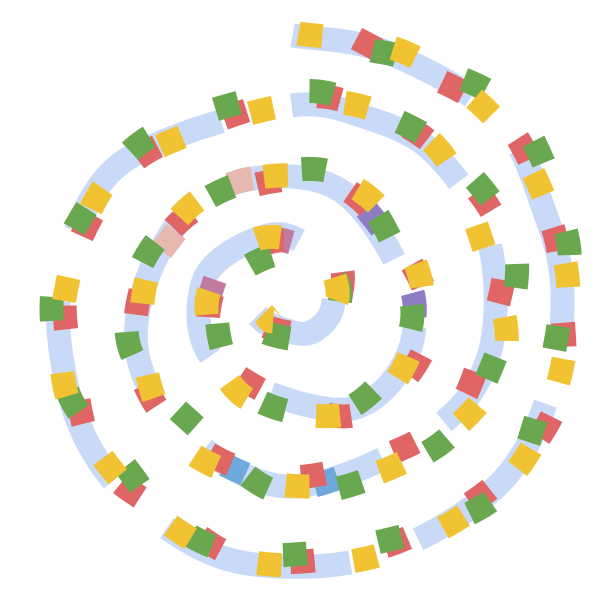
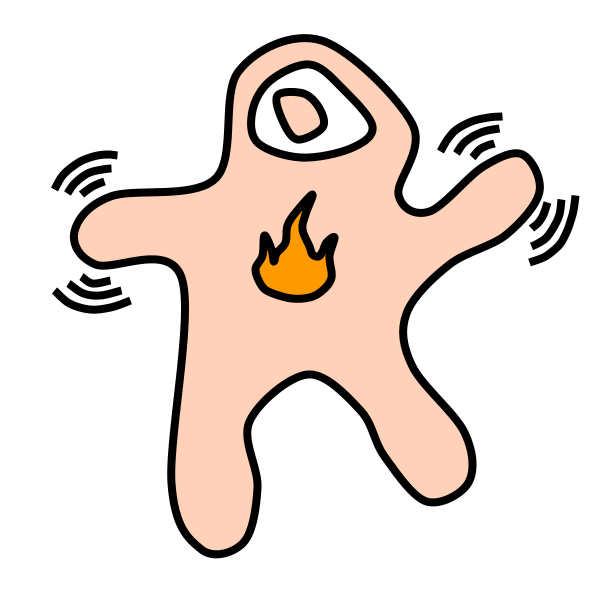
update core values art

diff --git a/assets/styles.scss b/assets/styles.scss
@@ -434,6 +434,14 @@ img {
   background: rgba($ui-black, 0.45);
 }
 
+.core-value-dialog__image {
+  display: block;
+  margin: 0 auto 1rem;
+  max-height: 360px;
+  object-fit: contain;
+  width: min(100%, 420px);
+}
+
 .core-value-dialog h2 {
   margin-top: 0;
   padding-right: 2rem;

diff --git a/leadership.md b/leadership.md
@@ -15,6 +15,8 @@ Core values are the guiding principles I use, both as a leader, researcher, and 
       type="button"
       aria-haspopup="dialog"
       data-core-value-title="Growth"
+      data-core-value-image="{{ '/assets/images/core_values/Growth.png' | relative_url }}"
+      data-core-value-image-alt="Growth core value illustration"
       data-core-value-description="I value growth. Growth is about continually growing: always believing in myself, being okay with failure, doing what I can to make amends and push outside my comfort zone.">
       <img src="{{ '/assets/images/core_values/Growth.png' | relative_url }}" alt="Growth core value illustration" class="core-value-card__image">
       <span class="core-value-card__overlay">Growth</span>
@@ -24,6 +26,8 @@ Core values are the guiding principles I use, both as a leader, researcher, and 
       type="button"
       aria-haspopup="dialog"
       data-core-value-title="Authenticity"
+      data-core-value-image="{{ '/assets/images/core_values/Authenticity.png' | relative_url }}"
+      data-core-value-image-alt="Authenticity core value illustration"
       data-core-value-description="I value authenticity. Authenticity is about staying true to myself, keeping my values and goals in mind, enjoying the present moment and doing what I most love to do.">
       <img src="{{ '/assets/images/core_values/Authenticity.png' | relative_url }}" alt="Authenticity core value illustration" class="core-value-card__image">
       <span class="core-value-card__overlay">Authenticity</span>
@@ -33,6 +37,8 @@ Core values are the guiding principles I use, both as a leader, researcher, and 
       type="button"
       aria-haspopup="dialog"
       data-core-value-title="Helping Others"
+      data-core-value-image="{{ '/assets/images/core_values/Helping Others.png' | relative_url }}"
+      data-core-value-image-alt="Helping Others core value illustration"
       data-core-value-description="I value helping others. Helping others is about helping others find satisfaction and happiness, whether by teaching, creating equal opportunities, or by being a good friend. If I've been given the gift of life, what use of it is if I can't help others along their journey?">
       <img src="{{ '/assets/images/core_values/Helping Others.png' | relative_url }}" alt="Helping Others core value illustration" class="core-value-card__image">
       <span class="core-value-card__overlay">Helping Others</span>
@@ -42,6 +48,8 @@ Core values are the guiding principles I use, both as a leader, researcher, and 
       type="button"
       aria-haspopup="dialog"
       data-core-value-title="Belonging"
+      data-core-value-image="{{ '/assets/images/core_values/Belonging.png' | relative_url }}"
+      data-core-value-image-alt="Belonging core value illustration"
       data-core-value-description="I value Belonging. Belonging is about finding and creating places where myself and others are valued and able to contribute value. A place where everyone can be authentic, grow and help each other.">
       <img src="{{ '/assets/images/core_values/Belonging.png' | relative_url }}" alt="Belonging core value illustration" class="core-value-card__image">
       <span class="core-value-card__overlay">Belonging</span>
@@ -51,6 +59,7 @@ Core values are the guiding principles I use, both as a leader, researcher, and 
 
 <dialog class="core-value-dialog" aria-labelledby="core-value-dialog-title">
   <button class="core-value-dialog__close" type="button" aria-label="Close core value popup">&times;</button>
+  <img src="" alt="" class="core-value-dialog__image" id="core-value-dialog-image">
   <h2 id="core-value-dialog-title"></h2>
   <p id="core-value-dialog-description"></p>
 </dialog>
@@ -81,14 +90,17 @@ I put effort into helping the community in small and large ways.
 <script>
   document.addEventListener("DOMContentLoaded", function () {
     const dialog = document.querySelector(".core-value-dialog");
+    const image = document.getElementById("core-value-dialog-image");
     const title = document.getElementById("core-value-dialog-title");
     const description = document.getElementById("core-value-dialog-description");
     const closeButton = document.querySelector(".core-value-dialog__close");
 
-    if (!dialog || !title || !description || !closeButton) return;
+    if (!dialog || !image || !title || !description || !closeButton) return;
 
     document.querySelectorAll(".core-value-card").forEach(function (card) {
       card.addEventListener("click", function () {
+        image.src = card.dataset.coreValueImage || "";
+        image.alt = card.dataset.coreValueImageAlt || "";
         title.textContent = card.dataset.coreValueTitle || "";
         description.textContent = card.dataset.coreValueDescription || "";
 
